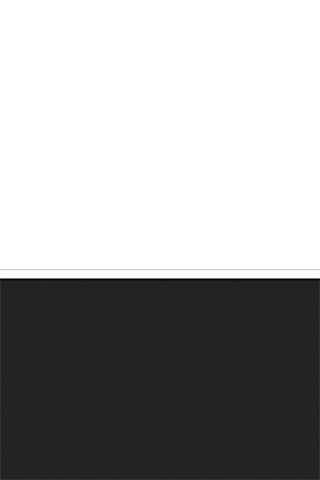
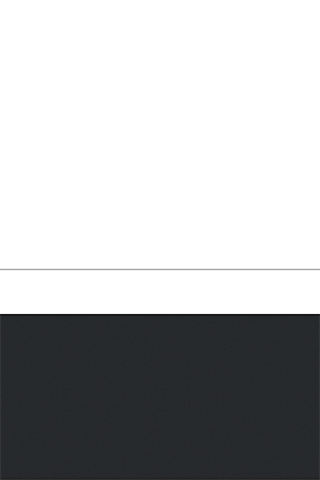
Modify |GameMenuViewController|'s view style

Changed region(s): [[0.0, 0.5625, 1.0, 0.6562]]

diff --git a/Pokemon/GameControllers/GameMenuViewController.m b/Pokemon/GameControllers/GameMenuViewController.m
@@ -27,14 +27,12 @@ typedef enum {
   GameMenuMoveViewController * gameMenuMoveViewController_;
   GameMenuBagViewController  * gameMenuBagViewController_;
   UIView * menuArea_;
-  UIView * buttonBagAndRunBackground_;
 }
 
 @property (nonatomic, assign) GameMenuKeyView              gameMenuKeyView;
 @property (nonatomic, retain) GameMenuMoveViewController * gameMenuMoveViewController;
 @property (nonatomic, retain) GameMenuBagViewController  * gameMenuBagViewController;
 @property (nonatomic, retain) UIView * menuArea;
-@property (nonatomic, retain) UIView * buttonBagAndRunBackground;
 
 // Button Actions
 - (void)openMoveView;
@@ -55,7 +53,6 @@ typedef enum {
 @synthesize gameMenuMoveViewController = gameMenuMoveViewController_;
 @synthesize gameMenuBagViewController  = gameMenuBagViewController_;
 @synthesize menuArea = menuArea_;
-@synthesize buttonBagAndRunBackground = buttonBagAndRunBackground_;
 
 - (void)dealloc
 {
@@ -68,7 +65,6 @@ typedef enum {
   [gameMenuMoveViewController_ release];
   [gameMenuBagViewController_  release];
   [menuArea_ release];
-  [buttonBagAndRunBackground_ release];
   
   [super dealloc];
 }
@@ -113,11 +109,10 @@ typedef enum {
                                              object:nil];
   
   // Constants
-  CGRect menuAreaFrame    = CGRectMake(0.0f, 270.0f, 320.0f, 210.0f);
-  CGRect buttonBagAndRunBackgroundFrame = CGRectMake(10.0f, 20.0f, 300.0f, 130.0f);
-  CGRect buttonBagFrame   = CGRectMake(10.0f, 25.0f, 80.0f, 80.0f);
-  CGRect buttonRunFrame   = CGRectMake(210.0f, 25.0f, 80.0f, 80.0f);
-  CGRect buttonFightFrame = CGRectMake(85.0f, 0.0f, 130.0f, 130.0f);
+  CGRect menuAreaFrame    = CGRectMake(0.f, 270.f, 320.f, 210.f);
+  CGRect buttonBagFrame   = CGRectMake(50.f, 5.f, 32.f, 32.f);
+  CGRect buttonRunFrame   = CGRectMake(320.f - 50.f - 32.f, 5.f, 32.f, 32.f);
+  CGRect buttonFightFrame = CGRectMake((320.f - 64.f) / 2.f, -10.f, 64.f, 64.f);
   
   // Menu Area
   UIView * menuArea = [[UIView alloc] initWithFrame:menuAreaFrame];
@@ -125,34 +120,24 @@ typedef enum {
   [menuArea release];
   [self.view addSubview:self.menuArea];
   
-  UIView * buttonBagAndRunBackground = [[UIView alloc] initWithFrame:buttonBagAndRunBackgroundFrame];
-  self.buttonBagAndRunBackground = buttonBagAndRunBackground;
-  [buttonBagAndRunBackground release];
-  [self.buttonBagAndRunBackground setBackgroundColor:
-   [UIColor colorWithPatternImage:[UIImage imageNamed:@"GameBattleViewMainMenuButtonBagRunBackground.png"]]];
-  [self.buttonBagAndRunBackground setOpaque:NO];
-  [self.menuArea addSubview:self.buttonBagAndRunBackground];
-  
   // Create Menu Buttons
   buttonBag_ = [[UIButton alloc] initWithFrame:buttonBagFrame];
   [buttonBag_ setImage:[UIImage imageNamed:@"GameBattleViewMainMenuButtonBagIcon.png"]
               forState:UIControlStateNormal];
   [buttonBag_ addTarget:self action:@selector(openBagView) forControlEvents:UIControlEventTouchUpInside];
-  [self.buttonBagAndRunBackground addSubview:buttonBag_];
+  [self.menuArea addSubview:buttonBag_];
   
   buttonRun_ = [[UIButton alloc] initWithFrame:buttonRunFrame];
   [buttonRun_ setImage:[UIImage imageNamed:@"GameBattleViewMainMenuButtonRunIcon.png"]
               forState:UIControlStateNormal];
   [buttonRun_ addTarget:self action:@selector(openRunConfirmView) forControlEvents:UIControlEventTouchUpInside];
-  [self.buttonBagAndRunBackground addSubview:buttonRun_];
+  [self.menuArea addSubview:buttonRun_];
   
   buttonFight_ = [[UIButton alloc] initWithFrame:buttonFightFrame];
-  [buttonFight_ setBackgroundColor:
-   [UIColor colorWithPatternImage:[UIImage imageNamed:@"GameBattleViewMainMenuButtonFightBackground.png"]]];
   [buttonFight_ setImage:[UIImage imageNamed:@"GameBattleViewMainMenuButtonFightIcon.png"]
                 forState:UIControlStateNormal];
   [buttonFight_ addTarget:self action:@selector(openMoveView) forControlEvents:UIControlEventTouchUpInside];
-  [self.buttonBagAndRunBackground addSubview:buttonFight_];
+  [self.menuArea addSubview:buttonFight_];
 }
 
 // Implement viewDidLoad to do additional setup after loading the view, typically from a nib.
@@ -172,7 +157,6 @@ typedef enum {
   self.gameMenuMoveViewController = nil;
   self.gameMenuBagViewController  = nil;
   self.menuArea = nil;
-  self.buttonBagAndRunBackground = nil;
 }
 
 - (BOOL)shouldAutorotateToInterfaceOrientation:(UIInterfaceOrientation)interfaceOrientation

diff --git a/Pokemon/GameModels/GameMoveEffectViewController.m b/Pokemon/GameModels/GameMoveEffectViewController.m
@@ -1,0 +1,78 @@
+//
+//  GameMoveEffect.m
+//  Pokemon
+//
+//  Created by Kaijie Yu on 2/27/12.
+//  Copyright 2012 Kjuly. All rights reserved.
+//
+
+#import "GameMoveEffect.h"
+
+#import "GlobalNotificationConstants.h"
+#import "GameWildPokemon.h"
+#import "GameTrainerPokemon.h"
+
+
+@interface GameMoveEffect () {
+ @private
+}
+
+- (void)applyMoveEffect:(NSNotification *)notification;
+
+@end
+
+@implementation GameMoveEffect
+
+@synthesize gameWildPokemon    = gameWildPoekmon_;
+@synthesize gameTrainerPokemon = gameTrainerPokemon_;
+
+- (void)dealloc
+{
+  [gameWildPoekmon_    release];
+  [gameTrainerPokemon_ release];
+  
+  [[NSNotificationCenter defaultCenter] removeObserver:self name:kPMNMoveEffect object:nil];
+  [super dealloc];
+}
+
+- (id)initWithwildPokemon:(GameWildPokemon *)gameWildPokemon
+           trainerPokemon:(GameTrainerPokemon *)gameTrainerPokemon
+{
+  if (self = [super init]) {
+    self.gameWildPokemon    = gameWildPokemon;
+    self.gameTrainerPokemon = gameTrainerPokemon;
+    
+    [[NSNotificationCenter defaultCenter] addObserver:self
+                                             selector:@selector(applyMoveEffect:)
+                                                 name:kPMNMoveEffect
+                                               object:nil];
+  }
+  return self;
+}
+
+- (id)init
+{
+  if (self = [super init]) {
+  }
+  return self;
+}
+
+#pragma mark - Private Methods
+
+- (void)applyMoveEffect:(NSNotification *)notification
+{
+  NSDictionary * userInfo = notification.userInfo;
+  if ([[userInfo objectForKey:@"MoveOwner"] isEqualToString:@"TrainerPokemon"]) {
+    self.gameWildPokemon.hp -= [[userInfo objectForKey:@"damage"] intValue];
+    if (self.gameWildPokemon.hp < 0)
+      self.gameWildPokemon.hp = 0;
+  }
+  else {
+    self.gameTrainerPokemon.hp -= [[userInfo objectForKey:@"damage"] intValue];
+    if (self.gameTrainerPokemon.hp < 0)
+      self.gameTrainerPokemon.hp = 0;
+  }
+  userInfo = nil;
+}
+
+@end

diff --git a/Pokemon/GameModels/GameMoveEffectViewController.h b/Pokemon/GameModels/GameMoveEffectViewController.h
@@ -1,0 +1,26 @@
+//
+//  GameMoveEffect.h
+//  Pokemon
+//
+//  Created by Kaijie Yu on 2/27/12.
+//  Copyright 2012 Kjuly. All rights reserved.
+//
+
+#import <Foundation/Foundation.h>
+#import "cocos2d.h"
+
+@class GameWildPokemon;
+@class GameTrainerPokemon;
+
+@interface GameMoveEffect : CCNode {
+  GameWildPokemon    * gameWildPoekmon_;
+  GameTrainerPokemon * gameTrainerPokemon_;
+}
+
+@property (nonatomic, retain) GameWildPokemon    * gameWildPokemon;
+@property (nonatomic, retain) GameTrainerPokemon * gameTrainerPokemon;
+
+- (id)initWithwildPokemon:(GameWildPokemon *)gameWildPokemon
+           trainerPokemon:(GameTrainerPokemon *)gameTrainerPokemon;
+
+@end
